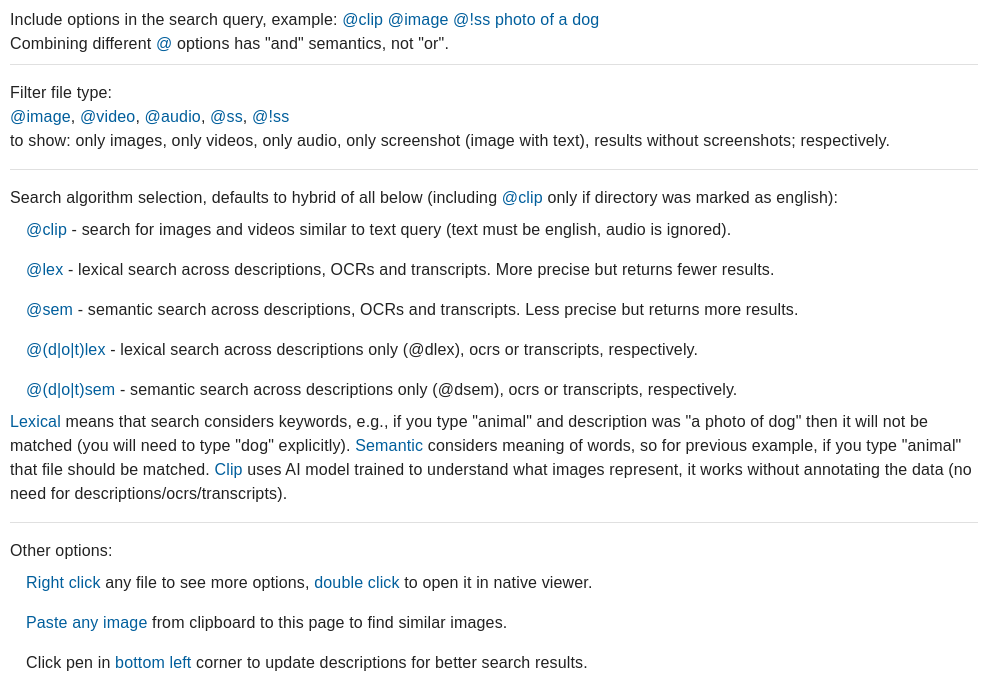
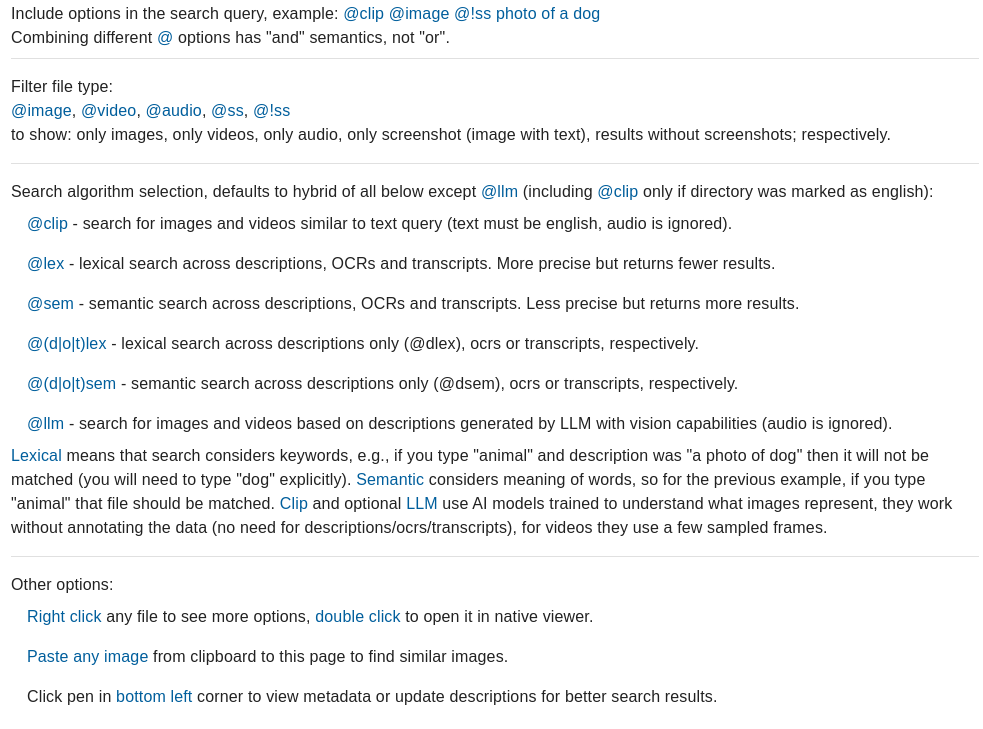
caching and misc fixes

diff --git a/frontend/src/pages/DirectorySelector/DirectorySelector.tsx b/frontend/src/pages/DirectorySelector/DirectorySelector.tsx
@@ -219,7 +219,7 @@ export const DirectorySelector = ({ first, onSelected, onGoBack }: Props) => {
             </Typography>
             <Tooltip
               title={
-                "If you toggle it, vision LLM will be downloaded (DeepSeek Janus Pro 1B). This model weights over 4GB and requires decent GPU or Apple Silicon. You will be able to use @llm tag to search for images and videos based on generated descriptions. Results, however, may not be worth additional processing time and resources as CLIP search already works very well for visual searches. If unsure - leave unset or try it out on some small directory. You can always change this setting by untracking directory and adding it again."
+                "If you toggle it, vision LLM will be used (DeepSeek Janus Pro 1B). This model weights over 4GB and requires decent GPU (or Apple Silicon and some patience) . You will be able to use @llm tag to search for images and videos based on generated descriptions. Results, however, may not be worth additional processing time (it can take a few seconds to process a single file!) and resources as CLIP search already works very well for visual searches. If unsure - leave unset or try it out on some small directory. You can always change this setting by untracking directory and adding it again."
               }
               placement="top-start"
             >

diff --git a/frontend/src/components/Help.tsx b/frontend/src/components/Help.tsx
@@ -165,8 +165,8 @@ export const Help = () => {
             </ListItem>
             <ListItem>
               <Typography>
-                Click pen in <Highlight>bottom left</Highlight> corner to update
-                descriptions for better search results.
+                Click pen in <Highlight>bottom left</Highlight> corner to view
+                metadata or update descriptions for better search results.
               </Typography>
             </ListItem>
           </List>

diff --git a/backend/kfe/main.py b/backend/kfe/main.py
@@ -1,6 +1,7 @@
 import json
 import logging
 import os
+import socket
 from contextlib import asynccontextmanager
 from pathlib import Path
 from typing import Optional
@@ -12,7 +13,6 @@ from fastapi.middleware.cors import CORSMiddleware
 from fastapi.responses import JSONResponse
 from fastapi.staticfiles import StaticFiles
 
-from kfe.dependencies import on_http_request_middleware
 from kfe.utils.constants import (DEVICE_ENV, LOG_LEVEL_ENV,
                                  PRELOAD_THUMBNAILS_ENV,
                                  REGENERATE_LLM_DESCRIPTIONS_ENV,
@@ -46,7 +46,7 @@ def main(host: str, port: int, cpu: bool, transcription_model: Optional[str], re
     if no_preload_thumbnails:
         os.environ[PRELOAD_THUMBNAILS_ENV] = 'false'
 
-    from kfe.dependencies import init, teardown
+    from kfe.dependencies import init, on_http_request_middleware, teardown
     from kfe.endpoints.access import router as access_router
     from kfe.endpoints.directories import router as directories_router
     from kfe.endpoints.files import router as files_router
@@ -57,7 +57,6 @@ def main(host: str, port: int, cpu: bool, transcription_model: Optional[str], re
     @asynccontextmanager
     async def lifespan(app: FastAPI):
         await init()
-        print(f'Started application on http://{host}:{port}. Open it in the browser to use the application.')
         yield
         await teardown()
 
@@ -101,7 +100,17 @@ def main(host: str, port: int, cpu: bool, transcription_model: Optional[str], re
                 json.dump(app.openapi(), f)
         except Exception as e:
             logger.error(f'Failed to generate openapi spec', exc_info=e)
-    logger.info(f'starting application on http://{host}:{port}')
+
+    try:
+        with socket.socket(socket.AF_INET, socket.SOCK_STREAM) as sock:
+            if sock.connect_ex((host, port)) == 0:
+                logger.info(f'Port {port} is taken, selecting random port automatically, use kfe --port to overwrite.')
+                port = 0
+            else:
+                logger.info(f'starting application on http://{host}:{port}')
+    except:
+        pass
+
     uvicorn.run(app, host=host, port=port)
 
 if __name__ == "__main__":

diff --git a/backend/kfe/utils/model_cache.py b/backend/kfe/utils/model_cache.py
@@ -1,4 +1,5 @@
 import os
+import shutil
 from typing import Callable, NamedTuple, Optional, TypeVar
 
 from kfe.utils.log import logger
@@ -40,8 +41,19 @@ def try_loading_cached_or_download(model_id: str, loader: Callable[[LoadCachedMo
             snapshots = list(os.scandir(model_snapshots_dir))
             if len(snapshots) > 0:
                 model_path = model_snapshots_dir.joinpath(snapshots[0].name)
+                if len(snapshots) > 1:
+                    # directory that we pass to the loader must have all the required files, but sometimes
+                    # they are broken into multiple snapshot directories (why?). This code attempts to copy all 
+                    # symlinks (since files in snapshot directories are all symlinks to blobs) to a single snapshot directory
+                    for snapshot in snapshots[1:]:
+                        if snapshot.is_dir():
+                            for file in os.scandir(model_snapshots_dir.joinpath(snapshot.name)):
+                                try:
+                                    shutil.copyfile(str(file.path), str(model_path.joinpath(file.name)), follow_symlinks=False)
+                                except:
+                                    pass
                 if cache_dir_must_have_file:
-                    if cache_dir_must_have_file in set(os.scandir(model_path)):
+                    if cache_dir_must_have_file in set([x.name for x in os.scandir(model_path)]):
                         attempt_loading_cached = True
                 else:
                     attempt_loading_cached = True

diff --git a/backend/kfe/directory_context.py b/backend/kfe/directory_context.py
@@ -5,7 +5,6 @@ from pathlib import Path
 from typing import Optional
 
 import torch
-
 from kfe.features.clip_engine import CLIPEngine
 from kfe.features.lemmatizer import Lemmatizer
 from kfe.features.ocr_engine import OCREngine
@@ -196,7 +195,7 @@ class DirectoryContext:
                     if file.file_type in (FileType.AUDIO, FileType.VIDEO):
                         await TranscriptionService(self.root_dir, self.transcriber, file_repo).transcribe_file(file)
                     # TODO currently we don't generate llm descriptions for files added at runtime
-                    # since model requires >5GB of gpu memory and it's probably good not to randomly allocate it
+                    # since model requires >5GB of gpu memory and it's probably better not to randomly allocate it
                     # for this non-critical use
                     await self.embedding_processor.on_file_created(file)
                     await self.get_metadata_editor(file_repo).on_file_created(file)

diff --git a/backend/README.md b/backend/README.md
@@ -8,6 +8,7 @@ Cross-platform File Explorer and Search Engine for Multimedia.
     - visual aspects of images and videos based on [CLIP](https://huggingface.co/docs/transformers/en/model_doc/clip) embeddings,
     - transcriptions that are automatically generated for audio and video files,
     - text that is automatically extracted from images,
+    - descriptions generated by [DeepSeek LLM](https://huggingface.co/deepseek-ai/Janus-Pro-1B) with vision capabilities (optional),
     - descriptions that you can manually write using GUI.
 - Similarity search capabilities:
     - find images or videos similar to one of images from your directory,
@@ -21,7 +22,7 @@ Cross-platform File Explorer and Search Engine for Multimedia.
 
 ## Intended use cases
 
-The application was designed for directories containing up to 10k images, short (<5 minutes) videos, or audio files. File names are assumed to be non-descriptive. Examples of such directories are:
+The application was designed for directories containing up to 10k images, short (<5 minutes) videos and audio files. File names are assumed to be non-descriptive. Examples of such directories are:
 - phone gallery or audio recordings copied to PC,
 - data dumps from messaging apps like Messenger (Messenger built-in search works only for text messages, but they allow downloading all media, which can be searched using this app),
 - saved memes.
@@ -56,13 +57,16 @@ pip install kfe
 kfe
 ```
 
-If you get an error that the default `8000` port is taken, you can change it using `kfe --port <other port>`. For more options run `kfe --help`.
 
-2. Open `http://localhost:8000` in the browser.
+2. Open [http://localhost:8000](http://localhost:8000) in the browser.
 
 3. Follow instructions on GUI, analyzing directory can take some time, but later searches will be fast. All analysis information will be stored on your disk and won't need to be done again. Adding first directory might be especially slow since all AI models will be downloaded. After they are downloaded application will work offline.
 
-If you see CUDA out of memory errors you can still run the application using CPU with `kfe --cpu`. The transcription model is the most resource demanding, see the next section for instruction how to change it.
+> [!TIP]
+>
+> If you get an error that the default `8000` port is taken, you can change it using `kfe --port <other port>`. For more options run `kfe --help`.
+>
+> If you see CUDA out of memory errors you can still run the application using CPU with `kfe --cpu`. The transcription model is the most resource demanding, see the next section for instruction how to change it. If you enabled LLM descriptions and notice errors try again with disabled.
 
 If you are on Linux and want to run application on system startup you can clone the project and run `./systemd/install_with_systemd.sh`.
 
@@ -72,12 +76,15 @@ Application uses the following models/libraries for english directories:
 - Transcriptions - for each audio and video files transcription is generated using [openai/whisper-large-v3](https://huggingface.co/openai/whisper-large-v3) model if you have CUDA or Apple silicon, otherwise [openai/whisper-base](https://huggingface.co/openai/whisper-base). This model requires more hardware resources than other models, you might want to change it, see the next section.
 - OCR - for each image application attempts to extract text using [easyocr](https://github.com/JaidedAI/EasyOCR) library.
 - CLIP embeddings - for each image and video (from which multiple image frames are extracted) application generates CLIP embeddings using [openai/clip](https://huggingface.co/openai/clip-vit-base-patch32) model. This enables searching images by arbitrary text, without need for any annotations.
-- Text embeddings - application generates embeddings of each type of text that can be searched (descriptions that you can write manually, transcriptions and OCR results) using [BAAI/bge-large-en-v1.5](https://huggingface.co/BAAI/bge-large-en-v1.5) model.
+- Vision LLM - (optional) for each image and video (from which single image frame is extracted) application generates few sentences of natural-language description using [deepseek-ai/Janus-Pro-1B](https://huggingface.co/deepseek-ai/Janus-Pro-1B) model.
+- Text embeddings - application generates embeddings of each type of text that can be searched (descriptions that you can write manually, transcriptions, OCR results, LLM descriptions) using [BAAI/bge-large-en-v1.5](https://huggingface.co/BAAI/bge-large-en-v1.5) model.
 - Text lemmatization - each type of text and every user query is preprocessed using [spacy/en_core_web_trf](https://spacy.io/models/en#en_core_web_lg) lemmatization model for lexical search purposes. If you are unfamilar what this means, the tldr is that different forms of the same word (like `work = working = worked`) will be treated the same in this type of search.
 
 ## Changing models
 
 Application uses models from huggingface, for various reasons you might want to change them. Transcription model is the most resource-demanding and can be changed with: `kfe --transcription-model <huggingface model id>`, where model id could be, for example, `openai/whisper-small`. See `kfe --help` for more info.
+
+Vision LLM requires similar amounts of resources as the large transcription model, there is no lighter-weight alternative (though you may try searching some quantized versions). During directory selection you may opt out of using this model. Application will work fine without it. To change prompt used with this model see [backend/kfe/features/vision_lm_engine.py](backend/kfe/features/vision_lm_engine.py).
 
 Currently other models can be changed only by modifying the source code. To do that, see [backend/kfe/dependencies.py](backend/kfe/dependencies.py) file and adjust it accordingly. If you change embedding model make sure to remove `.embeddings` directory so that embeddings will be recreated.
 
@@ -92,7 +99,7 @@ Application allows you to search individual directories. You can use multiple di
 
 1. Application creates a sqlite database file in the directory, named `.kfe.db`. This database stores almost all the metadata about files in the selected directory, including descriptions, extracted transcriptions, lemmatization results and more. You can see the SQL table format in [backend/kfe/persistence/model.py](backend/kfe/persistence/model.py). 
 2. Applications scans the directory and adds every multimedia file to the database, subdirectories and other types of files are ignored.
-3. For each file, application extracts relevant text (OCR for images, transcriptions for videos and audio) and lemmatizes it. Results are written to the database so it can be done only once.
+3. For each file, application extracts relevant text (OCR for images, transcriptions for videos and audio) and lemmatizes it. Results are written to the database so it can be done only once. If you toggled generating LLM descriptions when adding the directory those descriptions will also be generated and processed in the same manner as other types of text.
 4. Application generates various types of embeddings and stores them in `.embeddings` directory, there is a file with encoded embeddings for each original file in the directory. See `models` above to have an idea what embeddings are generated.
 5. Application loads the data to various search structures:
     - original and lemmatized text is split into words and added to a reverse index structure, which is a map of `word -> list of files in which the word appears`,
@@ -120,9 +127,11 @@ At this stage directory is marked as ready for querying. When you enter a query 
 5. Ordered results with file thumbnails are returned to the UI which presents them to the user.
 
 
-All of those structures and algorithms are written from scratch and included in the project. The application doesn't use tools such as elastic search for lexical search or faiss for similarity search. The assumption is that directories are not massive, they can contain up to few tens of thousands of files, not hundreds of thousands of files. For such use case this approach should work seamlessly on consumer grade machines (~200ms of search latency for a PC with 12gen i5 for a directory with ~5000 files with latency dominated by generation of embeddings and not search).
+All of those structures and algorithms are written from scratch and included in the project. The application doesn't use tools such as elastic search for lexical search or faiss for similarity search. The assumption is that directories are not massive, they can contain up to few tens of thousands of files, not hundreds of thousands of files. For such use case this approach should work seamlessly on consumer grade machines (~200ms of search latency for a PC with 12gen i5 and RTX 2060 for a directory with ~5000 files with latency dominated by generation of embeddings and not search).
 
-Application lets you also choose search mode (e.g., search only transcriptions) and filter results, GUI help in the top right corner enumerates all the options.
+Application lets you also choose search mode (e.g., search only transcriptions) and filter results, GUI help in the top right corner enumerates all the options:
+
+![search options](./docs/search_options.png)
 
 
 ### Resource usage
@@ -133,7 +142,7 @@ For initialization, a heavier transcription model will be loaded if there are au
 
 Apart from that, application requires ~1GB of RAM when idle and >2GB when used (exact numbers depend on how many files you have, 2GB was for ~10k files). Add GPU stats to that if you are not using GPU.
 
-Storage: All models and dependencies require <10GB of disk space.
+Storage: All models and dependencies require <10GB of disk space. Optional vision LLM adds another 4GB.
 
 
 ### Removing all data created or downloaded by the application
@@ -183,14 +192,14 @@ file_name = 'todo.mp4' # file name inside this directory
 embedding_persistor = EmbeddingPersistor(root_dir)
 embeddings = embedding_persistor.load_without_consistency_check(file_name)
 
-print(embeddings.__dict__.keys()) # ['description', 'ocr_text', 'transcription_text', 'clip_image', 'clip_video']
+print(embeddings.__dict__.keys()) # ['description', 'ocr_text', 'transcription_text', 'clip_image', 'clip_video', 'llm_text']
 print(embeddings.transcription_text.embedding.shape) # (1024, )
 ```
 
-To see all endpoints open http://localhost:8000/docs. To perform a search you can, for example, run:
+To see all endpoints open http://localhost:8000/docs. To perform a search you can run:
 
 ```sh
-curl -X POST "http://localhost:8000/load/search?offset=0&limit=10" \
+curl -X POST "http://localhost:8000/files/search?offset=0&limit=10" \
      -H "X-Directory: NAME-OF-YOUR-DIRECTORY" \
      -H "Content-Type: application/json" \
      -d '{"query": "YOUR QUERY"}'

diff --git a/README.md b/README.md
@@ -8,6 +8,7 @@ Cross-platform File Explorer and Search Engine for Multimedia.
     - visual aspects of images and videos based on [CLIP](https://huggingface.co/docs/transformers/en/model_doc/clip) embeddings,
     - transcriptions that are automatically generated for audio and video files,
     - text that is automatically extracted from images,
+    - descriptions generated by [DeepSeek LLM](https://huggingface.co/deepseek-ai/Janus-Pro-1B) with vision capabilities (optional),
     - descriptions that you can manually write using GUI.
 - Similarity search capabilities:
     - find images or videos similar to one of images from your directory,
@@ -21,7 +22,7 @@ Cross-platform File Explorer and Search Engine for Multimedia.
 
 ## Intended use cases
 
-The application was designed for directories containing up to 10k images, short (<5 minutes) videos, or audio files. File names are assumed to be non-descriptive. Examples of such directories are:
+Application was designed for directories containing up to 10k images, short (<5 minutes) videos and audio files. File names are assumed to be non-descriptive. Examples of such directories are:
 - phone gallery or audio recordings copied to PC,
 - data dumps from messaging apps like Messenger (Messenger built-in search works only for text messages, but they allow downloading all media, which can be searched using this app),
 - saved memes.
@@ -63,9 +64,9 @@ kfe
 
 > [!TIP]
 >
-> If you get an error that the default `8000` port is taken, you can change it using `kfe --port <other port>`. For more options run `kfe --help`.
+> If the default `8000` port is taken application will select random port automatically, see console output to learn which. You can change the default using `kfe --port <other port>`. For more options run `kfe --help`.
 >
-> If you see CUDA out of memory errors you can still run the application using CPU with `kfe --cpu`. The transcription model is the most resource demanding, see the next section for instruction how to change it.
+> If you see CUDA out of memory errors you can still run the application using CPU with `kfe --cpu`. The transcription model is the most resource demanding, see the next section for instruction how to change it. If you enabled LLM descriptions and notice errors try again with disabled.
 
 If you are on Linux and want to run application on system startup you can clone the project and run `./systemd/install_with_systemd.sh`.
 
@@ -75,12 +76,15 @@ Application uses the following models/libraries for english directories:
 - Transcriptions - for each audio and video files transcription is generated using [openai/whisper-large-v3](https://huggingface.co/openai/whisper-large-v3) model if you have CUDA or Apple silicon, otherwise [openai/whisper-base](https://huggingface.co/openai/whisper-base). This model requires more hardware resources than other models, you might want to change it, see the next section.
 - OCR - for each image application attempts to extract text using [easyocr](https://github.com/JaidedAI/EasyOCR) library.
 - CLIP embeddings - for each image and video (from which multiple image frames are extracted) application generates CLIP embeddings using [openai/clip](https://huggingface.co/openai/clip-vit-base-patch32) model. This enables searching images by arbitrary text, without need for any annotations.
-- Text embeddings - application generates embeddings of each type of text that can be searched (descriptions that you can write manually, transcriptions and OCR results) using [BAAI/bge-large-en-v1.5](https://huggingface.co/BAAI/bge-large-en-v1.5) model.
+- Vision LLM - (optional) for each image and video (from which single image frame is extracted) application generates few sentences of natural-language description using [deepseek-ai/Janus-Pro-1B](https://huggingface.co/deepseek-ai/Janus-Pro-1B) model.
+- Text embeddings - application generates embeddings of each type of text that can be searched (descriptions that you can write manually, transcriptions, OCR results, LLM descriptions) using [BAAI/bge-large-en-v1.5](https://huggingface.co/BAAI/bge-large-en-v1.5) model.
 - Text lemmatization - each type of text and every user query is preprocessed using [spacy/en_core_web_trf](https://spacy.io/models/en#en_core_web_lg) lemmatization model for lexical search purposes. If you are unfamilar what this means, the tldr is that different forms of the same word (like `work = working = worked`) will be treated the same in this type of search.
 
 ## Changing models
 
 Application uses models from huggingface, for various reasons you might want to change them. Transcription model is the most resource-demanding and can be changed with: `kfe --transcription-model <huggingface model id>`, where model id could be, for example, `openai/whisper-small`. See `kfe --help` for more info.
+
+Vision LLM requires similar amounts of resources as the large transcription model, there is no lighter-weight alternative (though you may try searching some quantized versions). During directory selection you may opt out of using this model. Application will work fine without it. To change prompt used with this model see [backend/kfe/features/vision_lm_engine.py](backend/kfe/features/vision_lm_engine.py).
 
 Currently other models can be changed only by modifying the source code. To do that, see [backend/kfe/dependencies.py](backend/kfe/dependencies.py) file and adjust it accordingly. If you change embedding model make sure to remove `.embeddings` directory so that embeddings will be recreated.
 
@@ -95,7 +99,7 @@ Application allows you to search individual directories. You can use multiple di
 
 1. Application creates a sqlite database file in the directory, named `.kfe.db`. This database stores almost all the metadata about files in the selected directory, including descriptions, extracted transcriptions, lemmatization results and more. You can see the SQL table format in [backend/kfe/persistence/model.py](backend/kfe/persistence/model.py). 
 2. Applications scans the directory and adds every multimedia file to the database, subdirectories and other types of files are ignored.
-3. For each file, application extracts relevant text (OCR for images, transcriptions for videos and audio) and lemmatizes it. Results are written to the database so it can be done only once.
+3. For each file, application extracts relevant text (OCR for images, transcriptions for videos and audio) and lemmatizes it. Results are written to the database so it can be done only once. If you toggled generating LLM descriptions when adding the directory those descriptions will also be generated and processed in the same manner as other types of text.
 4. Application generates various types of embeddings and stores them in `.embeddings` directory, there is a file with encoded embeddings for each original file in the directory. See `models` above to have an idea what embeddings are generated.
 5. Application loads the data to various search structures:
     - original and lemmatized text is split into words and added to a reverse index structure, which is a map of `word -> list of files in which the word appears`,
@@ -123,7 +127,7 @@ At this stage directory is marked as ready for querying. When you enter a query 
 5. Ordered results with file thumbnails are returned to the UI which presents them to the user.
 
 
-All of those structures and algorithms are written from scratch and included in the project. The application doesn't use tools such as elastic search for lexical search or faiss for similarity search. The assumption is that directories are not massive, they can contain up to few tens of thousands of files, not hundreds of thousands of files. For such use case this approach should work seamlessly on consumer grade machines (~200ms of search latency for a PC with 12gen i5 for a directory with ~5000 files with latency dominated by generation of embeddings and not search).
+All of those structures and algorithms are written from scratch and included in the project. The application doesn't use tools such as elastic search for lexical search or faiss for similarity search. The assumption is that directories are not massive, they can contain up to few tens of thousands of files, not hundreds of thousands of files. For such use case this approach should work seamlessly on consumer grade machines (~200ms of search latency for a PC with 12gen i5 and RTX 2060 for a directory with ~5000 files with latency dominated by generation of embeddings and not search).
 
 Application lets you also choose search mode (e.g., search only transcriptions) and filter results, GUI help in the top right corner enumerates all the options:
 
@@ -138,7 +142,7 @@ For initialization, a heavier transcription model will be loaded if there are au
 
 Apart from that, application requires ~1GB of RAM when idle and >2GB when used (exact numbers depend on how many files you have, 2GB was for ~10k files). Add GPU stats to that if you are not using GPU.
 
-Storage: All models and dependencies require <10GB of disk space.
+Storage: All models and dependencies require <10GB of disk space. Optional vision LLM adds another 4GB.
 
 
 ### Removing all data created or downloaded by the application
@@ -188,14 +192,14 @@ file_name = 'todo.mp4' # file name inside this directory
 embedding_persistor = EmbeddingPersistor(root_dir)
 embeddings = embedding_persistor.load_without_consistency_check(file_name)
 
-print(embeddings.__dict__.keys()) # ['description', 'ocr_text', 'transcription_text', 'clip_image', 'clip_video']
+print(embeddings.__dict__.keys()) # ['description', 'ocr_text', 'transcription_text', 'clip_image', 'clip_video', 'llm_text']
 print(embeddings.transcription_text.embedding.shape) # (1024, )
 ```
 
-To see all endpoints open http://localhost:8000/docs. To perform a search you can, for example, run:
+To see all endpoints open http://localhost:8000/docs. To perform a search you can run:
 
 ```sh
-curl -X POST "http://localhost:8000/load/search?offset=0&limit=10" \
+curl -X POST "http://localhost:8000/files/search?offset=0&limit=10" \
      -H "X-Directory: NAME-OF-YOUR-DIRECTORY" \
      -H "Content-Type: application/json" \
      -d '{"query": "YOUR QUERY"}'
